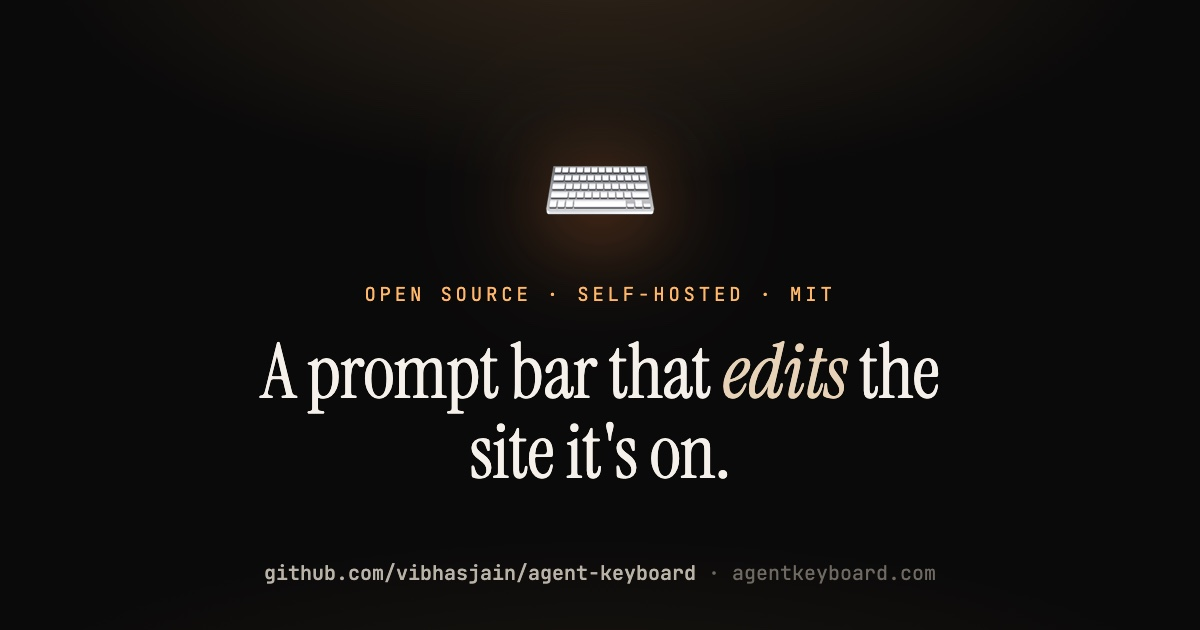
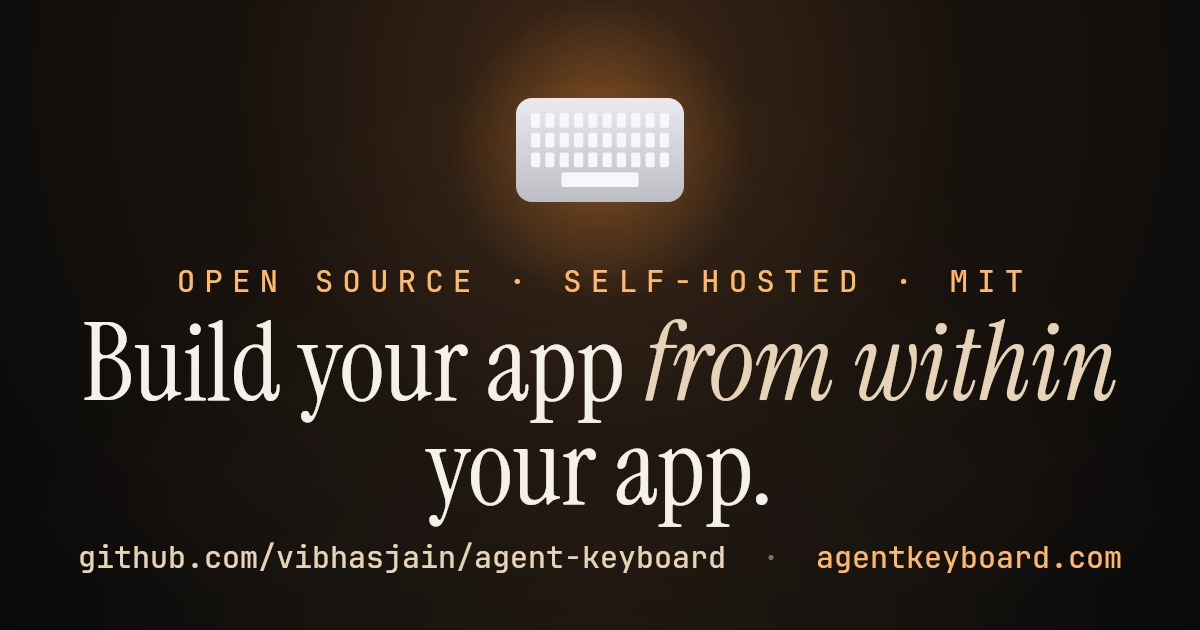
site: regenerate og preview image for the new marketing, bigger text
New share card reads 'Build your app from within your app.' to match the hero,
with larger, more legible headline / eyebrow / footer type. Bump og.jpg cache
param to v=8.

diff --git a/site/index.html b/site/index.html
@@ -15,13 +15,13 @@
 <meta property="og:title" content="Agent Keyboard" />
 <meta property="og:description" content="Ask for a change. A real Claude Code session edits your site's repo and pushes to main. Self-hosted, MIT." />
 <meta property="og:url" content="https://agentkeyboard.com/" />
-<meta property="og:image" content="https://agentkeyboard.com/og.jpg?v=7" />
+<meta property="og:image" content="https://agentkeyboard.com/og.jpg?v=8" />
 <meta property="og:image:width" content="1200" />
 <meta property="og:image:height" content="630" />
 <meta name="twitter:card" content="summary_large_image" />
 <meta name="twitter:title" content="Agent Keyboard" />
 <meta name="twitter:description" content="Ask for a change. A real Claude Code session edits your site's repo and pushes to main. Self-hosted, MIT." />
-<meta name="twitter:image" content="https://agentkeyboard.com/og.jpg?v=7" />
+<meta name="twitter:image" content="https://agentkeyboard.com/og.jpg?v=8" />
 
 <link rel="preconnect" href="https://fonts.googleapis.com">
 <link rel="preconnect" href="https://fonts.gstatic.com" crossorigin>
